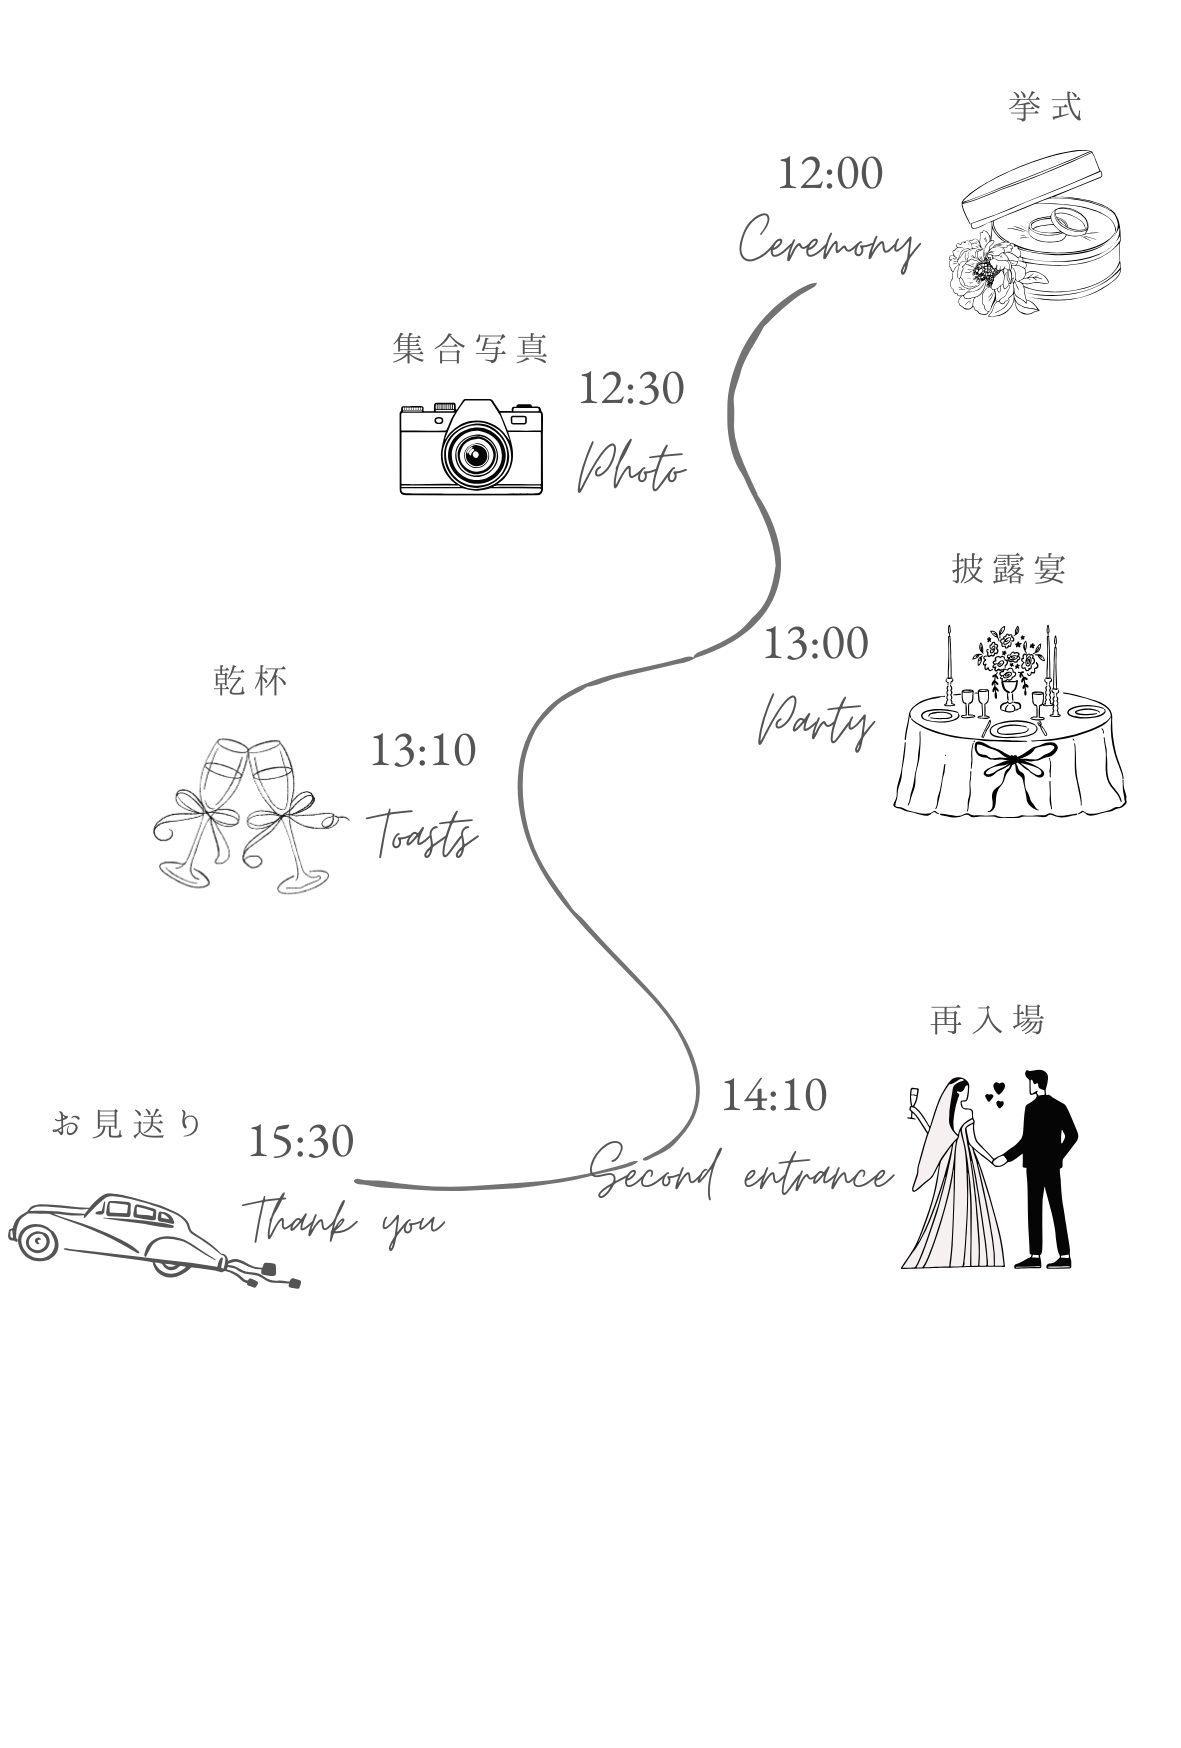
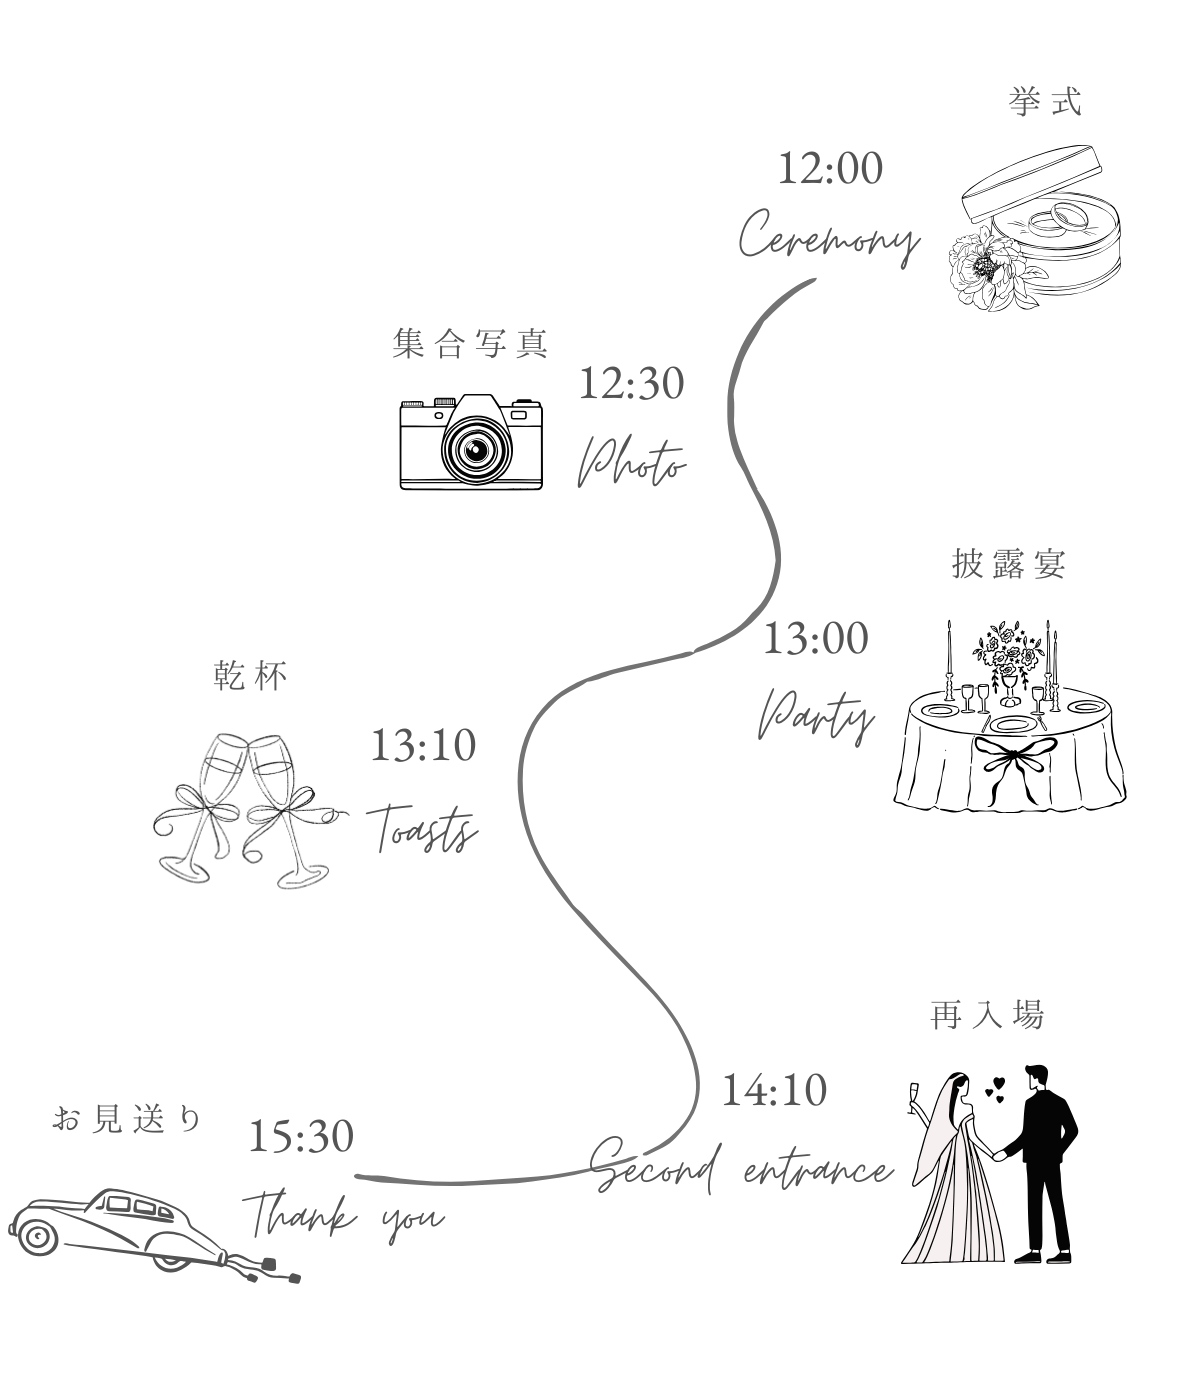
6.28-0.20_commit

diff --git a/seating.html b/seating.html
@@ -53,8 +53,8 @@
         <div class="table-guide-board">
           <article class="table-guide-card">
             <p class="table-guide-label">Table A</p>
-            <h3 class="table-guide-title">新郎ゲスト 大学時代の友人</h3>
-            <p class="table-guide-text">講義や大変だった勉強含めもちろん遊びも<br>4年間共に過ごしたアオハルメンバー</p>
+            <h3 class="table-guide-title">新郎 友人</h3>
+            <p class="table-guide-text">講義や大変だった勉強や遊びも<br>近大で共に過ごしたアオハルメンバー</p>
             <p class="table-guide-names">千畑 颯也 , 児玉 剛典 , 弓場 伸悟 , 島 達也 , 平田 拓実</p>
             <details class="table-guide-message-panel">
               <summary class="table-guide-message-summary"><span class="guest-message-toggle"></span></summary>
@@ -84,8 +84,8 @@
           </article>
           <article class="table-guide-card">
             <p class="table-guide-label">Table B</p>
-            <h3 class="table-guide-title">共通・新郎ゲスト 中高時代の友人</h3>
-            <p class="table-guide-text">全員が浪商ハンドボール部出身の体育会系で<br>新婦と同じ中学のクラスメイト</p>
+            <h3 class="table-guide-title">新郎 友人・共通の友人</h3>
+            <p class="table-guide-text">全員浪商ハンド部出身の体育会系<br>新婦と同じ中学のクラスメイト</p>
             <p class="table-guide-names">矢野 世人 , 赤崎 嵐丸 小谷 遥希 , 茶野 遥平 , 馬頭 源暉</p>
             <details class="table-guide-message-panel">
               <summary class="table-guide-message-summary"><span class="guest-message-toggle"></span></summary>
@@ -96,7 +96,7 @@
               </div>
               <div class="guest-message-row">
                 <p class="guest-message-name">赤崎 嵐丸</p>
-                <p class="guest-message-text">久しぶり！会えるの楽しみにしてたよ！写真も撮ろな〜</p>
+                <p class="guest-message-text">久しぶり！会えるの楽しみにしてたよ！<br>写真も撮ろな〜</p>
               </div>
               <div class="guest-message-row">
                 <p class="guest-message-name">小谷 遥希</p>
@@ -104,89 +104,89 @@
               </div>
               <div class="guest-message-row">
                 <p class="guest-message-name">茶野 遥平</p>
-                <p class="guest-message-text">来てくれてありがとう。今日はゆっくり楽しんでいってください。</p>
+                <p class="guest-message-text">今日は共通の友達としてとして盛り上げてや！</p>
               </div>
               <div class="guest-message-row">
                 <p class="guest-message-name">馬頭 源暉</p>
-                <p class="guest-message-text">来てくれてありがとう。今日はゆっくり楽しんでいってください。</p>
+                <p class="guest-message-text">元気にしとったか〜？今日は茶野と喧嘩すんなよ！</p>
               </div>
             </div>
             </details>
           </article>
           <article class="table-guide-card">
             <p class="table-guide-label">Table C</p>
-            <h3 class="table-guide-title">新婦ゲスト 高校時代の友人</h3>
-            <p class="table-guide-text">1年生で同じクラスになってから<br>授業も遊びも青春を一緒に過ごしたメンバー</p>
+            <h3 class="table-guide-title">新婦 友人</h3>
+            <p class="table-guide-text">高1のとき同じクラスで仲良くなり<br>授業も遊びも共にした川高の青春メンバー</p>
             <p class="table-guide-names">藤原 瑞稀 , 神﨑 和 , 木村 愛結<br>高山 空 , 中村 奈生 , 藤城 あいり</p>
             <details class="table-guide-message-panel">
               <summary class="table-guide-message-summary"><span class="guest-message-toggle"></span></summary>
             <div class="guest-message-list">
               <div class="guest-message-row">
                 <p class="guest-message-name">藤原 瑞稀</p>
-                <p class="guest-message-text">来てくれてありがとう。今日はゆっくり楽しんでいってください。</p>
+                <p class="guest-message-text">一緒に行った甲子園おもろかったな〜！また行こね♪<br>今日はめいっぱい楽しんでよ〜</p>
               </div>
               <div class="guest-message-row">
                 <p class="guest-message-name">神﨑 和</p>
-                <p class="guest-message-text">来てくれてありがとう。今日はゆっくり楽しんでいってください。</p>
+                <p class="guest-message-text">横浜で楽しんでるかい？<br>今日はいっぱい話して新婚生活も聞かせてな♡</p>
               </div>
               <div class="guest-message-row">
                 <p class="guest-message-name">木村 愛結</p>
-                <p class="guest-message-text">来てくれてありがとう。今日はゆっくり楽しんでいってください。</p>
+                <p class="guest-message-text">仕事も忙しいのに来てくれてありがと！<br>黒髪ロングずっと気になっててんけど見れるかな〜</p>
               </div>
               <div class="guest-message-row">
                 <p class="guest-message-name">高山 空</p>
-                <p class="guest-message-text">来てくれてありがとう。今日はゆっくり楽しんでいってください。</p>
+                <p class="guest-message-text">ほんっまに会いたかったよー！<br>今日はいっぱい写真も撮っていっぱい喋ろなー！</p>
               </div>
               <div class="guest-message-row">
                 <p class="guest-message-name">中村 奈生</p>
-                <p class="guest-message-text">来てくれてありがとう。今日はゆっくり楽しんでいってください。</p>
+                <p class="guest-message-text">おひさしー！楽しみに来てくれてありがとうね<br>今日もいつも通りいっぱい笑って盛り上げてなー♪</p>
               </div>
               <div class="guest-message-row">
                 <p class="guest-message-name">藤城 あいり</p>
-                <p class="guest-message-text">来てくれてありがとう。今日はゆっくり楽しんでいってください。</p>
+                <p class="guest-message-text">ちゃんとママしてるのほんまに尊敬！<br>今日は高校みたいにいっぱい笑って楽しんで〜</p>
               </div>
             </div>
             </details>
           </article>
           <article class="table-guide-card">
             <p class="table-guide-label">Table D</p>
-            <h3 class="table-guide-title">共通ゲスト バイト時代の友人</h3>
-            <p class="table-guide-text">焼き鳥居酒屋で働いていた時に<br>忙しくても毎日楽しく乗り越えたアルバイト仲間</p>
+            <h3 class="table-guide-title">共通の友人</h3>
+            <p class="table-guide-text">焼き鳥居酒屋「心八剣伝」のメンバー<br>忙しくても毎日楽しく乗り越えた仲間達</p>
             <p class="table-guide-names">百田 陸人 , 岡本 悠太 , 稲川 雄治<br>芦田 紘昌 , 宮川 凌雅 , 柳田 了威</p>
             <details class="table-guide-message-panel">
               <summary class="table-guide-message-summary"><span class="guest-message-toggle"></span></summary>
             <div class="guest-message-list">
               <div class="guest-message-row">
                 <p class="guest-message-name">百田 陸人</p>
-                <p class="guest-message-text">来てくれてありがとう。今日はゆっくり楽しんでいってください。</p>
+                <p class="guest-message-text">アルバイトの癒し担当！<br>今日は大好きなお酒を楽しんでね〜</p>
               </div>
               <div class="guest-message-row">
                 <p class="guest-message-name">岡本 悠太</p>
-                <p class="guest-message-text">来てくれてありがとう。今日はゆっくり楽しんでいってください。</p>
+                <p class="guest-message-text">後輩2人の晴れ姿しっかり見といてや〜</p>
               </div>
               <div class="guest-message-row">
                 <p class="guest-message-name">稲川 雄治</p>
-                <p class="guest-message-text">来てくれてありがとう。今日はゆっくり楽しんでいってください。</p>
+                <p class="guest-message-text">忙しい中来てくれてありがとう！<br>久々にいっぱい話そな〜</p>
               </div>
               <div class="guest-message-row">
                 <p class="guest-message-name">芦田 紘昌</p>
-                <p class="guest-message-text">来てくれてありがとう。今日はゆっくり楽しんでいってください。</p>
+                <p class="guest-message-text">自社のお酒持ってきてくれた？<br>今日も盛り上げて楽しんでな！</p>
               </div>
               <div class="guest-message-row">
                 <p class="guest-message-name">宮川 凌雅</p>
-                <p class="guest-message-text">来てくれてありがとう。今日はゆっくり楽しんでいってください。</p>
+                <p class="guest-message-text">新郎を崇拝してるマッチョ君！<br>またジムで2人のお世話してな〜</p>
               </div>
               <div class="guest-message-row">
                 <p class="guest-message-name">柳田 了威</p>
-                <p class="guest-message-text">来てくれてありがとう。今日はゆっくり楽しんでいってください。</p>
+                <p class="guest-message-text">アルバイトのいじられ担当後輩くん！<br>おそらく初めての結婚式全力で楽しめよ！</p>
               </div>
             </div>
             </details>
           </article>
           <article class="table-guide-card">
             <p class="table-guide-label">Table E</p>
-            <h3 class="table-guide-title">新郎ゲスト 親族&小中学時代の友人</h3>
-            <p class="table-guide-text">大切な親族と小学時代から<br>家族のように過ごした親友とそのファミリー</p>
+            <h3 class="table-guide-title">新郎 親族&友人</h3>
+            <p class="table-guide-text">大切な家族と小学時代からの親友と<br>家族のように過ごしたそのファミリー</p>
             <p class="table-guide-names">本田 公人 , 本田 小百合 , 塩村 登美代 , 塩村 克己<br>田中 景子 , 田中 羅文 , 田中 湖花</p>
             <details class="table-guide-message-panel">
               <summary class="table-guide-message-summary"><span class="guest-message-toggle"></span></summary>
@@ -217,14 +217,14 @@
               </div>
               <div class="guest-message-row">
                 <p class="guest-message-name">田中 湖花</p>
-                <p class="guest-message-text">来てくれてありがとう！<br>真白がいつも可愛いと言ってます笑</p>
+                <p class="guest-message-text">来てくれてありがとう！<br>いつも真白が可愛い会いたいと言ってました笑</p>
               </div>
             </div>
             </details>
           </article>
           <article class="table-guide-card">
             <p class="table-guide-label">Table F</p>
-            <h3 class="table-guide-title">新郎ゲスト 親族</h3>
+            <h3 class="table-guide-title">新郎 親族</h3>
             <p class="table-guide-text">姉ファミリーの中に甥っ子が5人!<br>ダンソン好き2歳児が出没する可能性有</p>
             <p class="table-guide-names">工藤 友紀 , 工藤 竜一 , 工藤 海斗 , 工藤 大翔 , 工藤 奨人<br>惠木 麻耶 , 惠木 陸斗 , 惠木 駿斗</p>
             <details class="table-guide-message-panel">
@@ -240,66 +240,66 @@
               </div>
               <div class="guest-message-row">
                 <p class="guest-message-name">工藤 海斗</p>
-                <p class="guest-message-text">ほぼ兄弟の甥！今日は楽しんで！</p>
+                <p class="guest-message-text">ほぼ兄弟の甥！今日はお子ちゃまとして楽しんでな〜</p>
               </div>
               <div class="guest-message-row">
                 <p class="guest-message-name">工藤 大翔</p>
-                <p class="guest-message-text">就職おめでとう！今日はゆっくり過ごしてね〜</p>
+                <p class="guest-message-text">就職おめでとう！<br>大人の第一歩として今日は過ごしてな〜</p>
               </div>
               <div class="guest-message-row">
                 <p class="guest-message-name">工藤 奨人</p>
-                <p class="guest-message-text">新郎新婦大好き奨ちゃん！今日は癒し担当</p>
+                <p class="guest-message-text">ふたりが大好きな奨ちゃん！<br>今日は癒し担当でよろしく</p>
               </div>
               <div class="guest-message-row">
                 <p class="guest-message-name">惠木 麻耶</p>
-                <p class="guest-message-text">飲みすぎずに楽しんでね〜！</p>
+                <p class="guest-message-text">飲みすぎには気をつけて<br>いっぱい笑って食べて楽しんでね〜</p>
               </div>
               <div class="guest-message-row">
                 <p class="guest-message-name">惠木 陸斗</p>
-                <p class="guest-message-text">素敵な時間にするから見ててね〜</p>
+                <p class="guest-message-text">素敵な時間にするから好きな物食べて過ごしてね〜</p>
               </div>
               <div class="guest-message-row">
                 <p class="guest-message-name">惠木 駿斗</p>
-                <p class="guest-message-text">美味しいものいっぱいあるから食べや〜！</p>
+                <p class="guest-message-text">美味しいものいっぱいあるから一番食べてよ！</p>
               </div>
             </div>
             </details>
           </article>
           <article class="table-guide-card">
             <p class="table-guide-label">Table G</p>
-            <h3 class="table-guide-title">新婦ゲスト 親族&幼馴染/専門時代の友人</h3>
-            <p class="table-guide-text">家族と保育所からの付き合いの親友と<br>少ない期間でも濃い時間を過ごした専門メンバー</p>
+            <h3 class="table-guide-title">新婦 親族&友人</h3>
+            <p class="table-guide-text">家族と保育所から幼馴染の親友と<br>濃い時間を過ごした専門メンバー</p>
             <p class="table-guide-names">曽我 智美 , 曽我 滉修 , 浅田 怜那 , 板倉 広武<br>河島 遥花 , 北出 杏寿 , 岡田 麻衣</p>
             <details class="table-guide-message-panel">
               <summary class="table-guide-message-summary"><span class="guest-message-toggle"></span></summary>
             <div class="guest-message-list">
               <div class="guest-message-row">
                 <p class="guest-message-name">曽我 智美</p>
-                <p class="guest-message-text">来てくれてありがとう。今日はゆっくり楽しんでいってください。</p>
+                <p class="guest-message-text">待望の娘の晴れ舞台！<br>今日は落ち着いて楽しんで過ごしてね</p>
               </div>
               <div class="guest-message-row">
                 <p class="guest-message-name">曽我 滉修</p>
-                <p class="guest-message-text">来てくれてありがとう。今日はゆっくり楽しんでいってください。</p>
+                <p class="guest-message-text">美味しいものいっぱい食べて<br>ワンズの面倒係としてよろしく！</p>
               </div>
               <div class="guest-message-row">
                 <p class="guest-message-name">浅田 怜那</p>
-                <p class="guest-message-text">来てくれてありがとう。今日はゆっくり楽しんでいってください。</p>
+                <p class="guest-message-text">一番会ってる親友ちゃん<br>泣きすぎには気をつけて一日楽しんでねー！</p>
               </div>
               <div class="guest-message-row">
                 <p class="guest-message-name">板倉 広武</p>
-                <p class="guest-message-text">来てくれてありがとう。今日はゆっくり楽しんでいってください。</p>
+                <p class="guest-message-text">親友の彼っさん！<br>れなと一緒に楽しんでくれたら嬉しいです</p>
               </div>
               <div class="guest-message-row">
                 <p class="guest-message-name">河島 遥花</p>
-                <p class="guest-message-text">来てくれてありがとう。今日はゆっくり楽しんでいってください。</p>
+                <p class="guest-message-text">やっと会えたよー！<br>いつもの笑顔で楽しく過ごしてくれたら嬉しいな〜</p>
               </div>
               <div class="guest-message-row">
                 <p class="guest-message-name">北出 杏寿</p>
-                <p class="guest-message-text">来てくれてありがとう。今日はゆっくり楽しんでいってください。</p>
+                <p class="guest-message-text">セブチのライブまた行きたい！！<br>今日はいっぱい話しかけてなー♪</p>
               </div>
               <div class="guest-message-row">
                 <p class="guest-message-name">岡田 麻衣</p>
-                <p class="guest-message-text">来てくれてありがとう。今日はゆっくり楽しんでいってください。</p>
+                <p class="guest-message-text">元気してたー！？<br>久々に会えたからいっぱい色んな話したいな〜</p>
               </div>
             </div>
             </details>
@@ -359,7 +359,7 @@
                 <dl class="family-intro-list">
                   <div class="family-intro-row">
                     <dt>新郎新婦からの印象</dt>
-                    <dd>おじいちゃんLOVE</dd>
+                    <dd>おじいLOVE</dd>
                     <dt>好きなもの</dt>
                     <dd>毎日歩いて通っている阪神百貨店</dd>
                   </div>
@@ -409,7 +409,7 @@
                     <dt>新郎新婦からの印象</dt>
                     <dd>笑がみ様</dd>
                     <dt>好きなもの</dt>
-                    <dd>美容<br>友達との飲み会</dd>
+                    <dd>美容ケア<br>友達との飲み会</dd>
                   </div>
                 </dl>
               </div>

diff --git a/agenda.html b/agenda.html
@@ -62,7 +62,7 @@
             </div>
           </article>
           <article class="agenda-item">
-            <p class="agenda-time">13:00~13:50</p>
+            <p class="agenda-time">3:00~13:50</p>
             <div class="agenda-item-body">
               <h3 class="agenda-item-title">歓談・フォトタイム</h3>
               <p class="agenda-item-text"></p>
@@ -111,8 +111,14 @@
           <article class="agenda-note-card">
             <h3 class="agenda-note-title">Guest Guide</h3>
             <p class="agenda-note-text">
-              ⑴受付がまだの方は 受付担当までお知らせください<br>新郎ゲスト担当：新郎姉（惠木 麻耶）<br>新婦ゲスト担当：新婦兄（曽我 滉修）<br>
-              <!-- ⑵タクシーチケットをもらっていない方は<br>スタッフにお声がけください -->
+              ⑴受付がお済みでない方はスタッフか受付担当へお知らせください<br>新郎ゲスト担当：新郎姉（惠木 麻耶）<br>新婦ゲスト担当：新婦兄（曽我 滉修）<br>
+              <ご来場の際タクシーチケットが使用できなかった方はスタッフにお声がけください>
+            </p>
+             <article class="agenda-note-card">
+            <h3 class="agenda-note-title">Rest Space</h3>
+            <p class="agenda-note-text">
+              お手洗いの新郎新婦が準備したアメニティグッズは<br>ゲストの皆さまでご自由にお使いください<br>
+              <ご体調が優れない場合は近くのスタッフまでお知らせください>
             </p>
           </article>
           <article class="agenda-note-card">
@@ -120,8 +126,8 @@
             <p class="agenda-note-text">ネット申込のカタログギフトとなっております<br>お好きな商品をご注文ください</p>
           </article>
           <article class="agenda-note-card">
-            <h3 class="agenda-note-title">引き菓子について</h3>
-            <p class="agenda-note-text">賞味期限内にお召し上がりください</p>
+            <h3 class="agenda-note-title">引き菓子 プチギフトについて</h3>
+            <p class="agenda-note-text">本日お渡しの物は賞味期限内にお召し上がりください</p>
           </article>
         </div>
       </div>

diff --git a/css/styles.css b/css/styles.css
@@ -133,7 +133,7 @@ body {
 
 #profile {
   background: #f3f0e9;
-  padding-top: 3rem;
+  padding-top: 1rem;
 }
 
 /* 背景画像要素を非表示 */
@@ -283,7 +283,7 @@ body {
 #food.content-section,
 #seating.content-section,
 #ceremony-photo.content-section {
-  padding-bottom: 7rem;
+  padding-bottom: 2.5rem;
 }
 
 .home-intro-background-region > .content-section:first-of-type {
@@ -416,12 +416,10 @@ body {
 .profile-board {
   display: grid;
   gap: 1.35rem;
-  margin-top: 1rem;
 }
 
 .profile-pair {
   display: grid;
-  gap: 1.35rem;
 }
 
 .profile-person-card {
@@ -2128,6 +2126,7 @@ body {
 .agenda-timeline {
   display: grid;
   gap: 0.9rem;
+  margin-left: 1.5rem;
 }
 
 .agenda-item {
@@ -2157,6 +2156,7 @@ body {
   font-weight: 400;
   line-height: 1.55;
   color: #40372e;
+  margin-left: 1rem;
 }
 
 .agenda-item-text {

diff --git a/about.html b/about.html
@@ -89,7 +89,7 @@
             <p class="memory-date">2025.06.14</p>
             <div class="memory-body">
               <h3 class="memory-title">新婦母へ婚約報告</h3>
-              <p class="memory-text">中之島のお店で母が涙を流して喜んでくれました</p>
+              <p class="memory-text">中之島のお店で涙を流して喜んでくれました</p>
             </div>
           </article>
           <article class="memory-item">